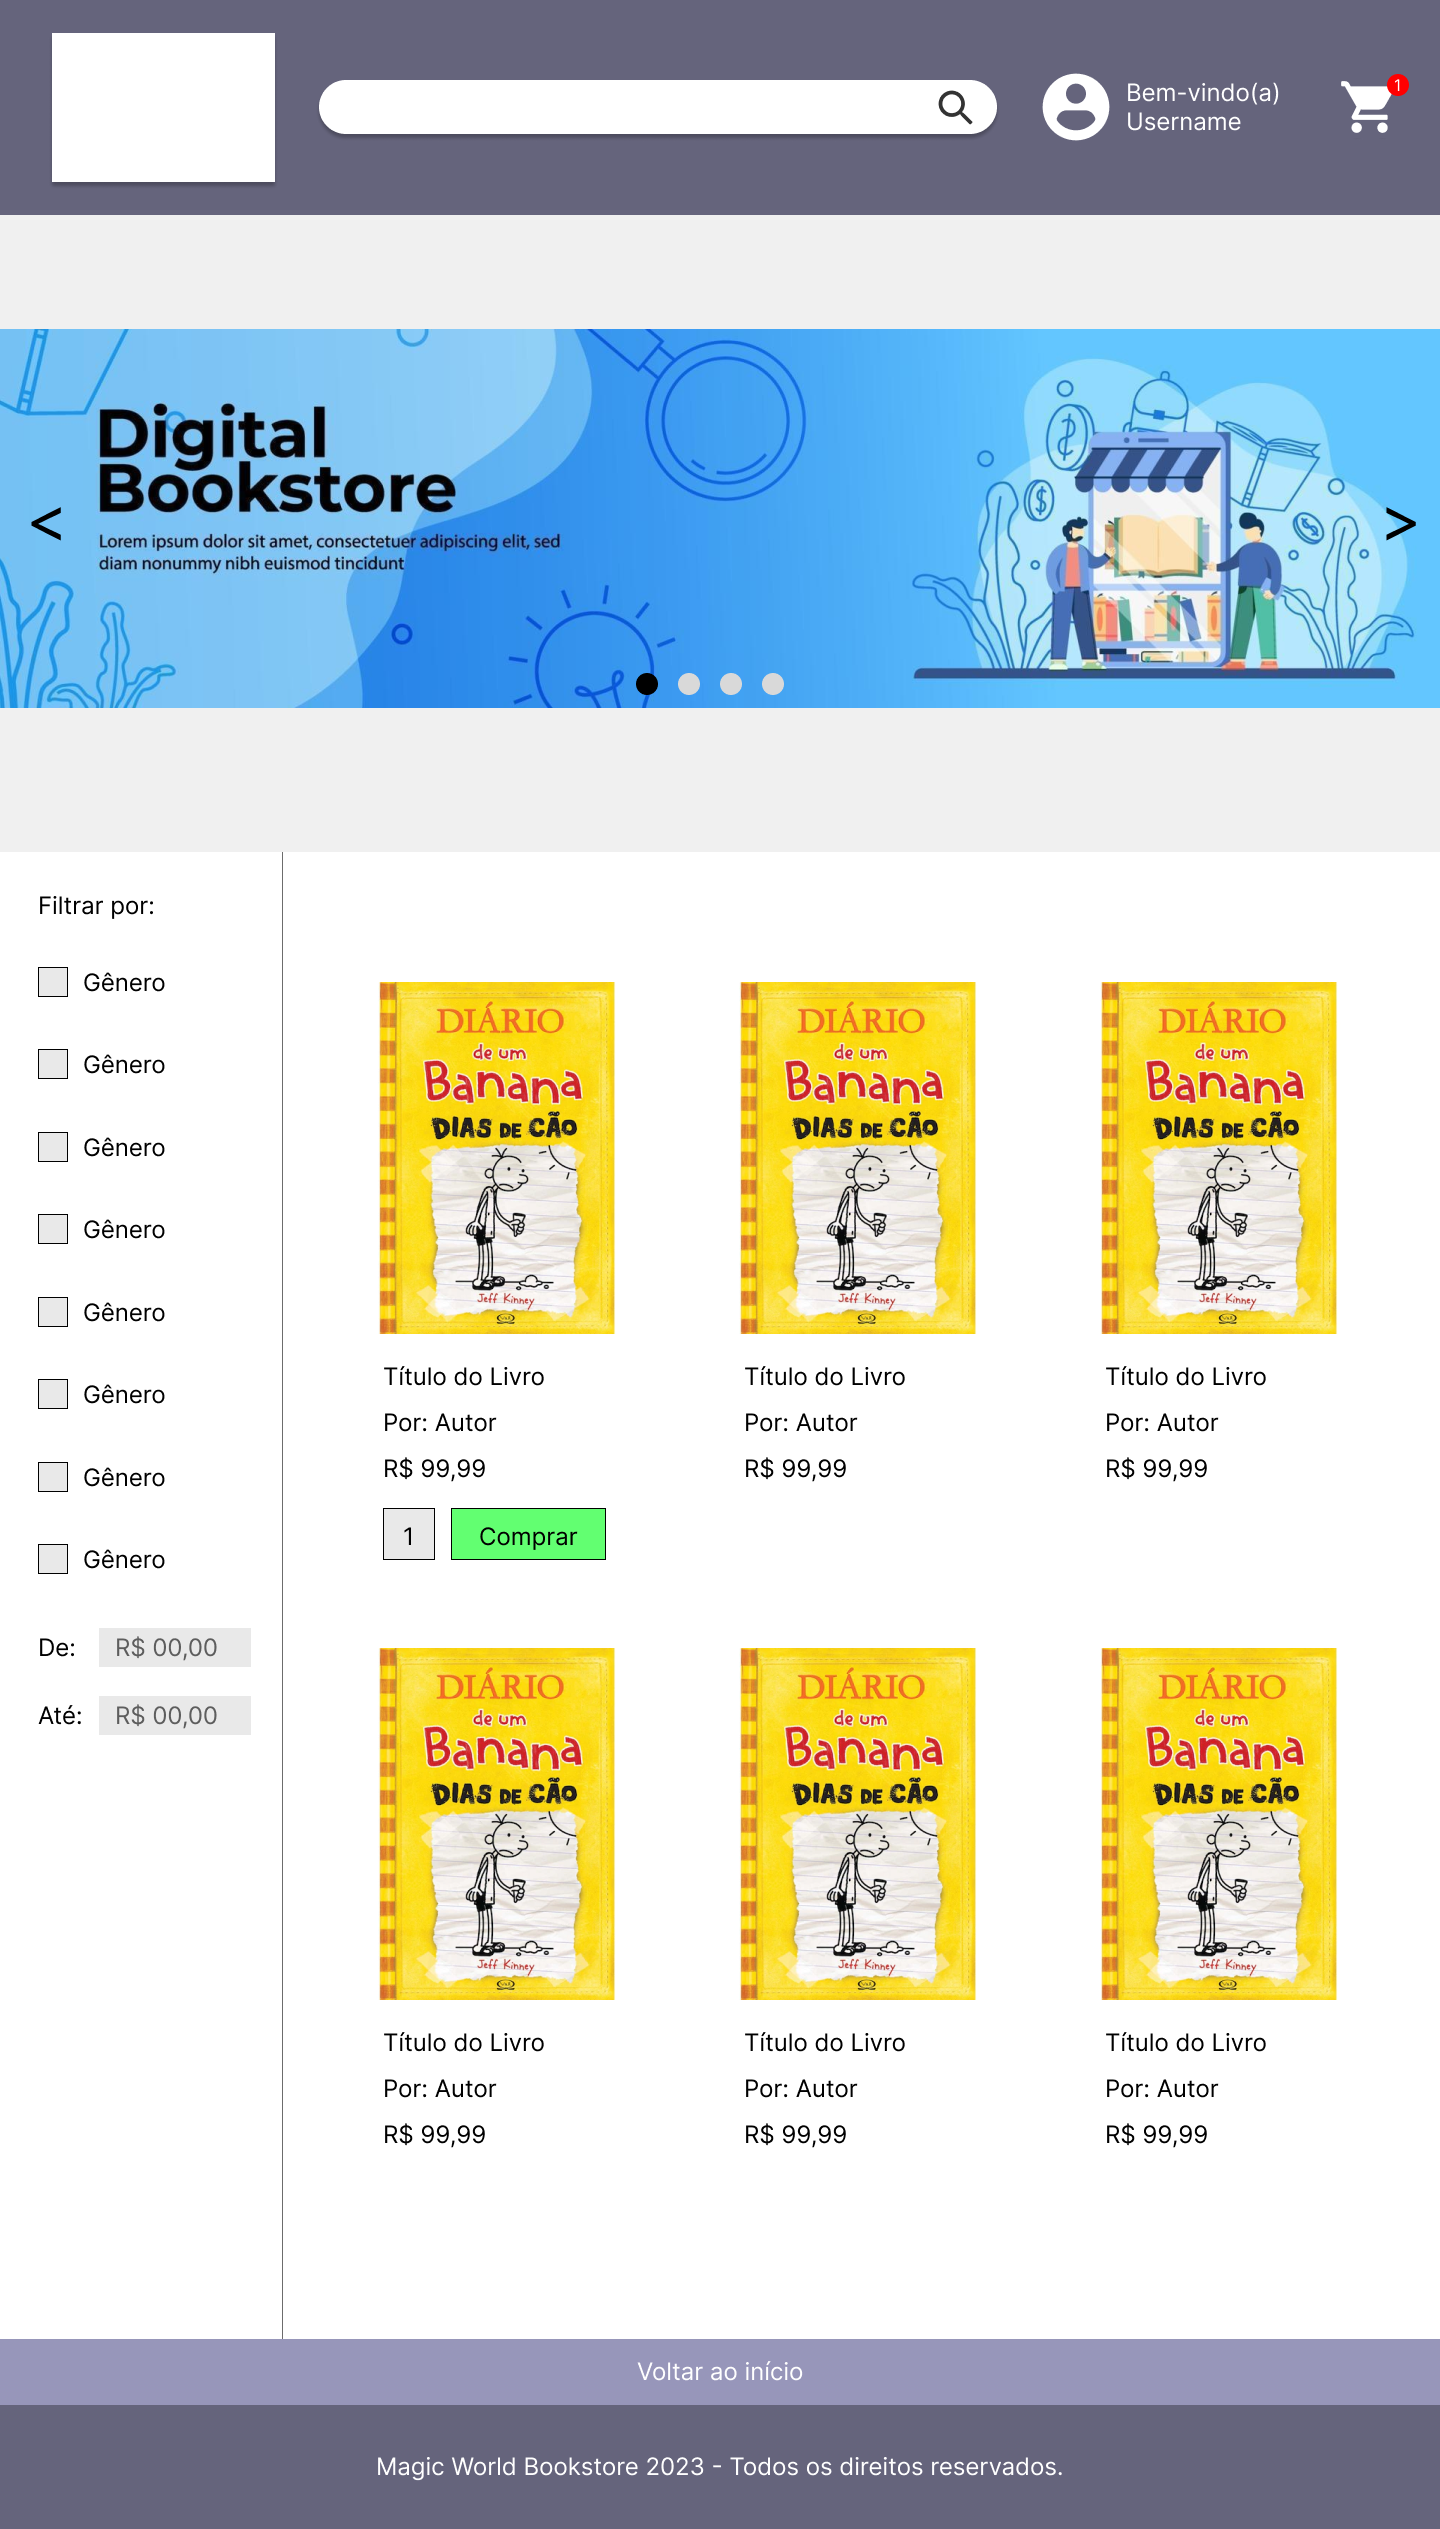
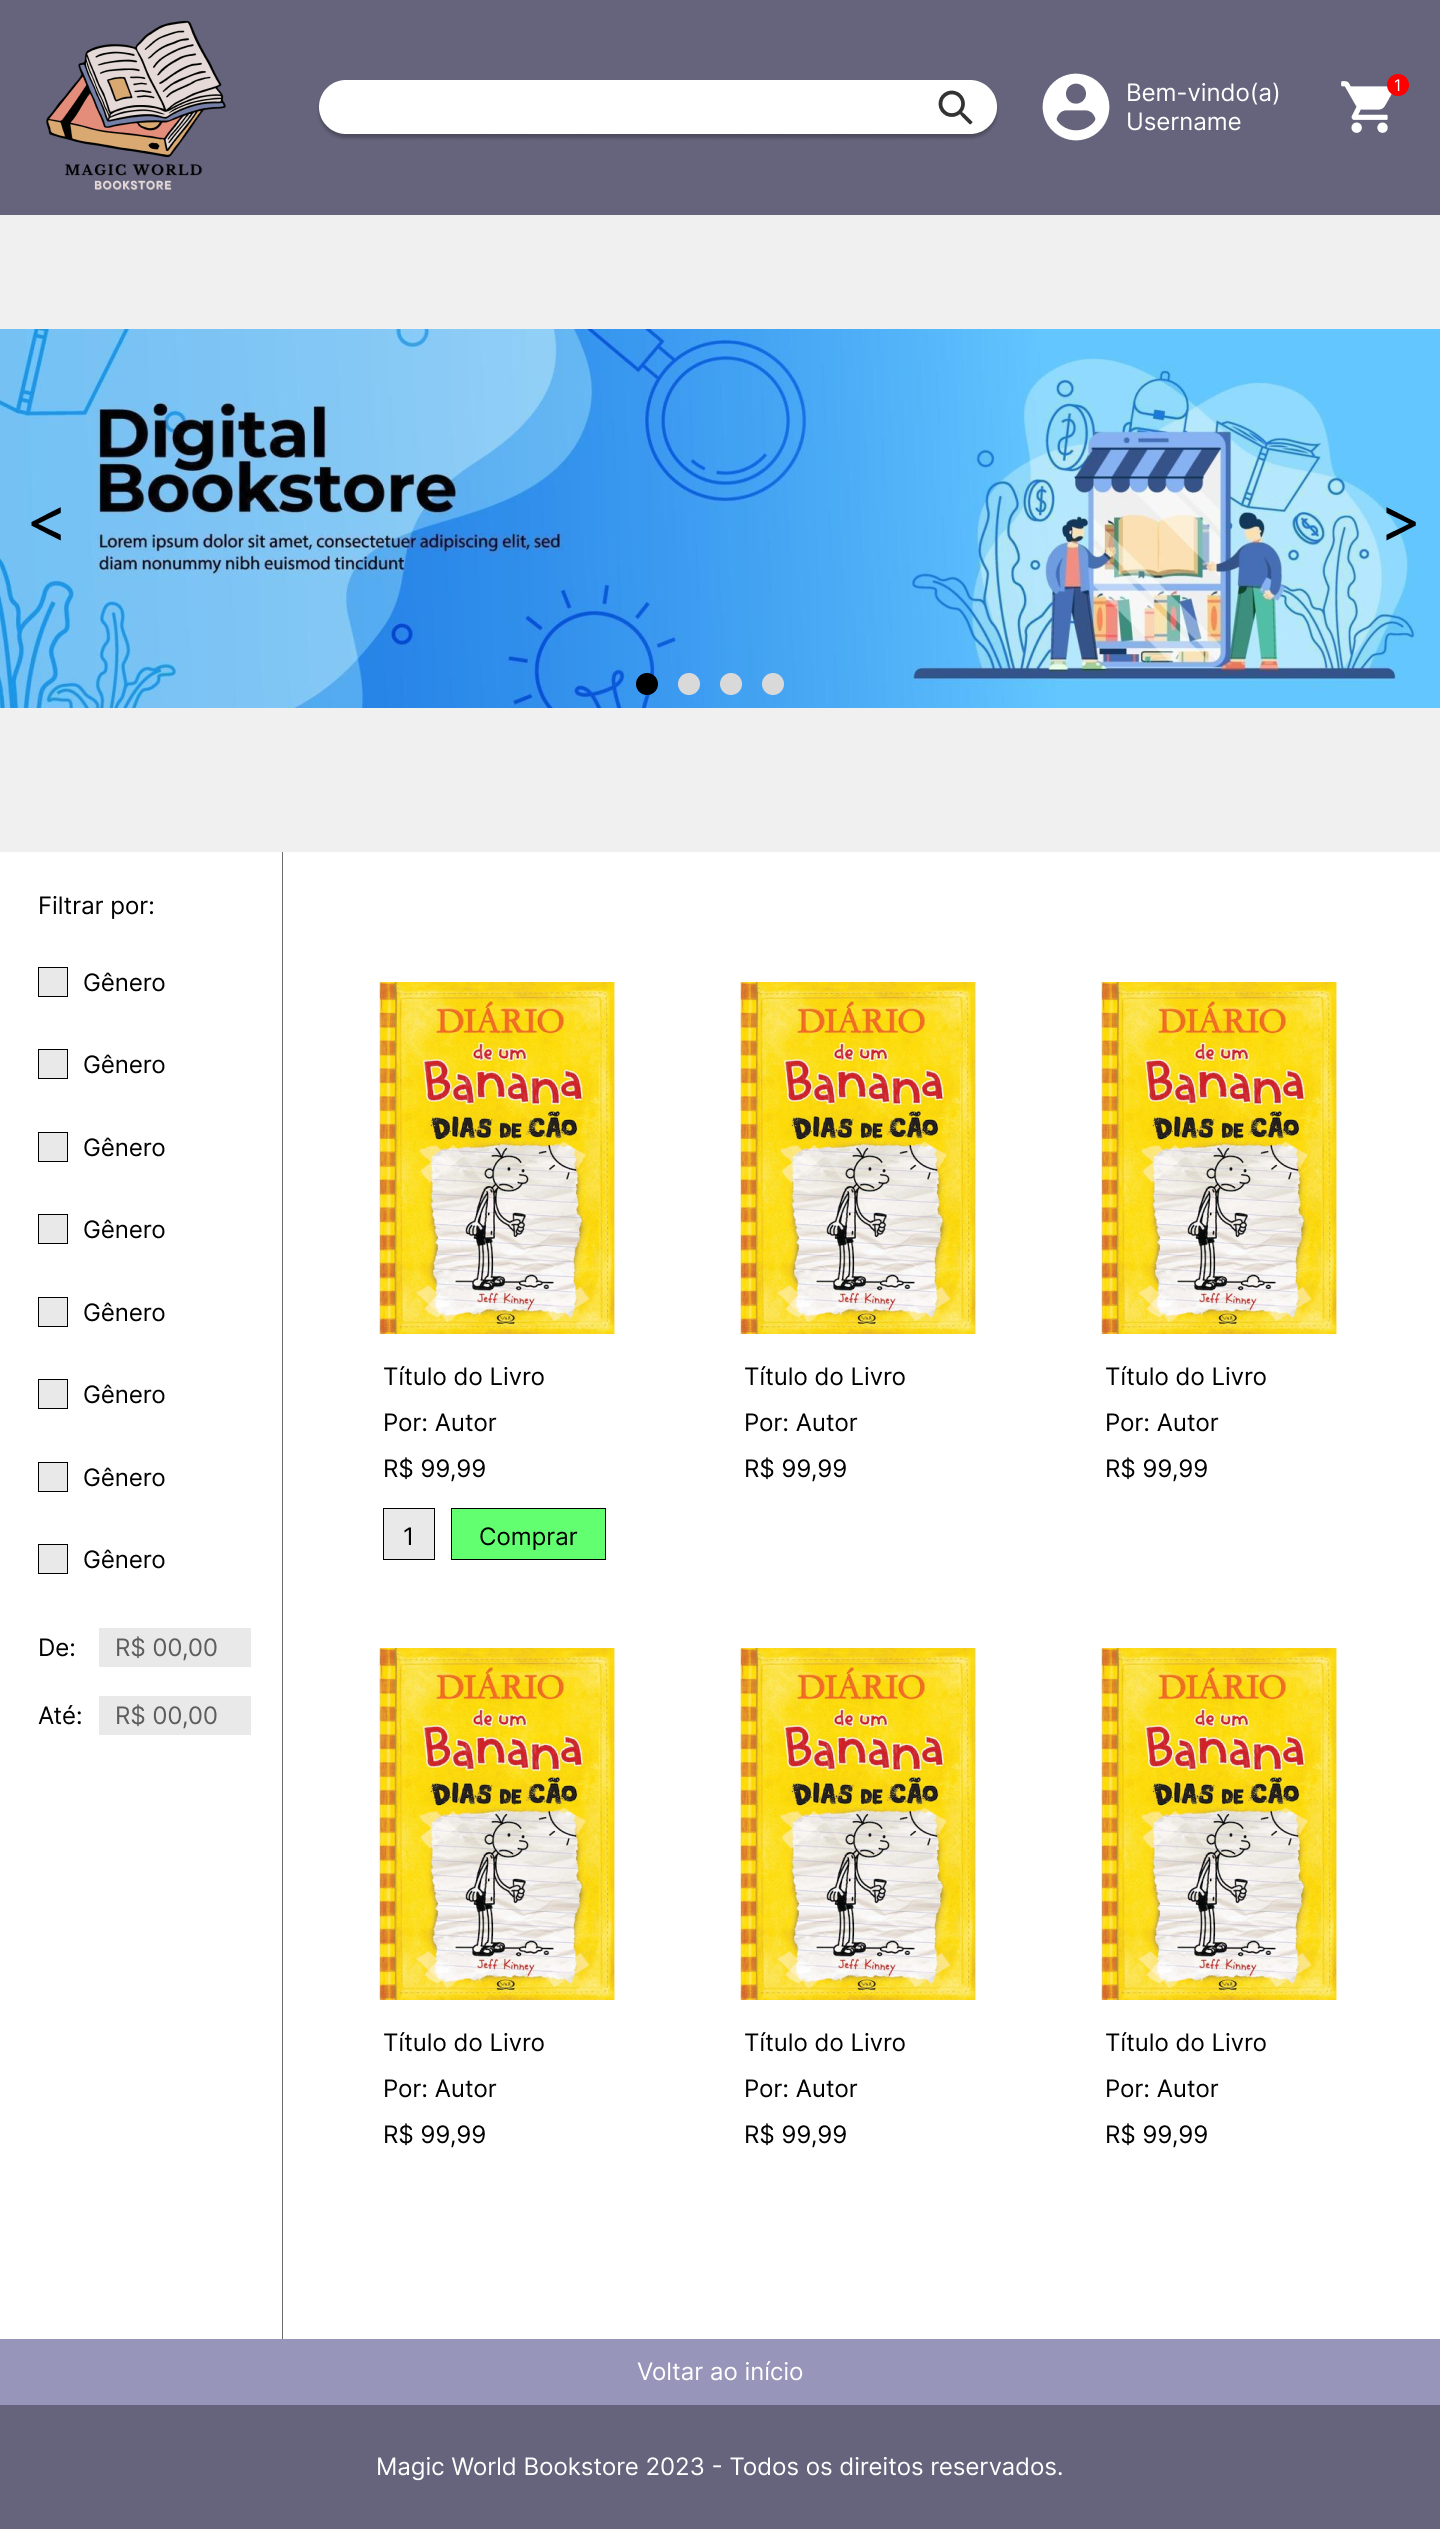
alteracao no prototipo do figma e criacao da pagina principal

Changed region(s): [[0.0312, 0.0, 0.2188, 0.0937]]

diff --git a/app/css/style.css b/app/css/style.css
@@ -1,0 +1,78 @@
+:root{
+    --color1: #65647C;
+    --color2: #FFF;
+    --color3: #F0F0F0;
+    --color4: #9796BA;
+}
+
+*{
+    margin: 0;
+    padding: 0;
+    box-sizing: border-box;
+}
+
+header{
+    display: flex;
+    flex-direction: row;
+    justify-content: space-around;
+    align-items: center;
+    background-color: var(--color1);
+    height: 20vh;
+}
+
+#logo{
+    height: 100%;
+}
+
+#pesquisa{
+    width: 35%;
+    height: 22%;
+    display: grid;
+    grid-template-rows: 1fr;
+    grid-template-columns: 1fr 35px;
+}
+
+#barra-pesquisa{
+    grid-area: 1 / 1 / 2 / 3;
+    border: 0;
+    outline: 0;
+    border-radius: 30px;
+    padding: 0 8px;
+}
+
+#pesquisa > div{
+    grid-area: 1 / 2 / 2 / 3;
+    display: flex;
+    flex-direction: column;
+    justify-content: center;
+    border-radius: 30px;
+}
+
+#lupa{
+    width: 25px;
+    height: 25px;
+}
+
+#conta{
+    display: grid;
+    grid-template-rows: 1fr;
+    grid-template-columns: 1fr 3fr;
+    column-gap: 5px;
+}
+
+#img-perfil{
+    grid-area: 1 / 1 / 2 / 2;
+}
+
+#conta > div{
+    grid-area: 1 / 2 / 2 / 3;
+    display: flex;
+    flex-direction: column;
+    justify-content: center;
+    color: var(--color3);
+}
+
+.icones{
+    width: 40px;
+    height: 40px;
+}

diff --git a/app/view/home.php b/app/view/home.php
@@ -1,0 +1,28 @@
+<!DOCTYPE html>
+<html lang="pt-BR">
+    <head>
+        <meta charset="utf-8">
+        <meta name="viewport" content="width=device-width, initial-scale=1">
+        <link rel="stylesheet" href="../css/style.css">
+        <title>Magic World Bookstore</title>
+    </head>
+    <body>
+        <header>
+            <img src="../img/logo.png" alt="logo" id="logo">
+            <div id="pesquisa">
+                <input type="text" id="barra-pesquisa">
+                <div>
+                    <img src="../icons/lupa.svg" alt="lupa" id="lupa">
+                </div>
+            </div>
+            <div id="conta">
+                <img src="../icons/conta.png" alt="perfil" class="icones" id="img-perfil">
+                <div>
+                    <span>Bem-vindo(a)</span>
+                    <span>Username</span>
+                </div>
+            </div>
+            <img src="../icons/carrinho.png" alt="carrinho" class="icones" id="carrinho">
+        </header>
+    </body>
+</html>
